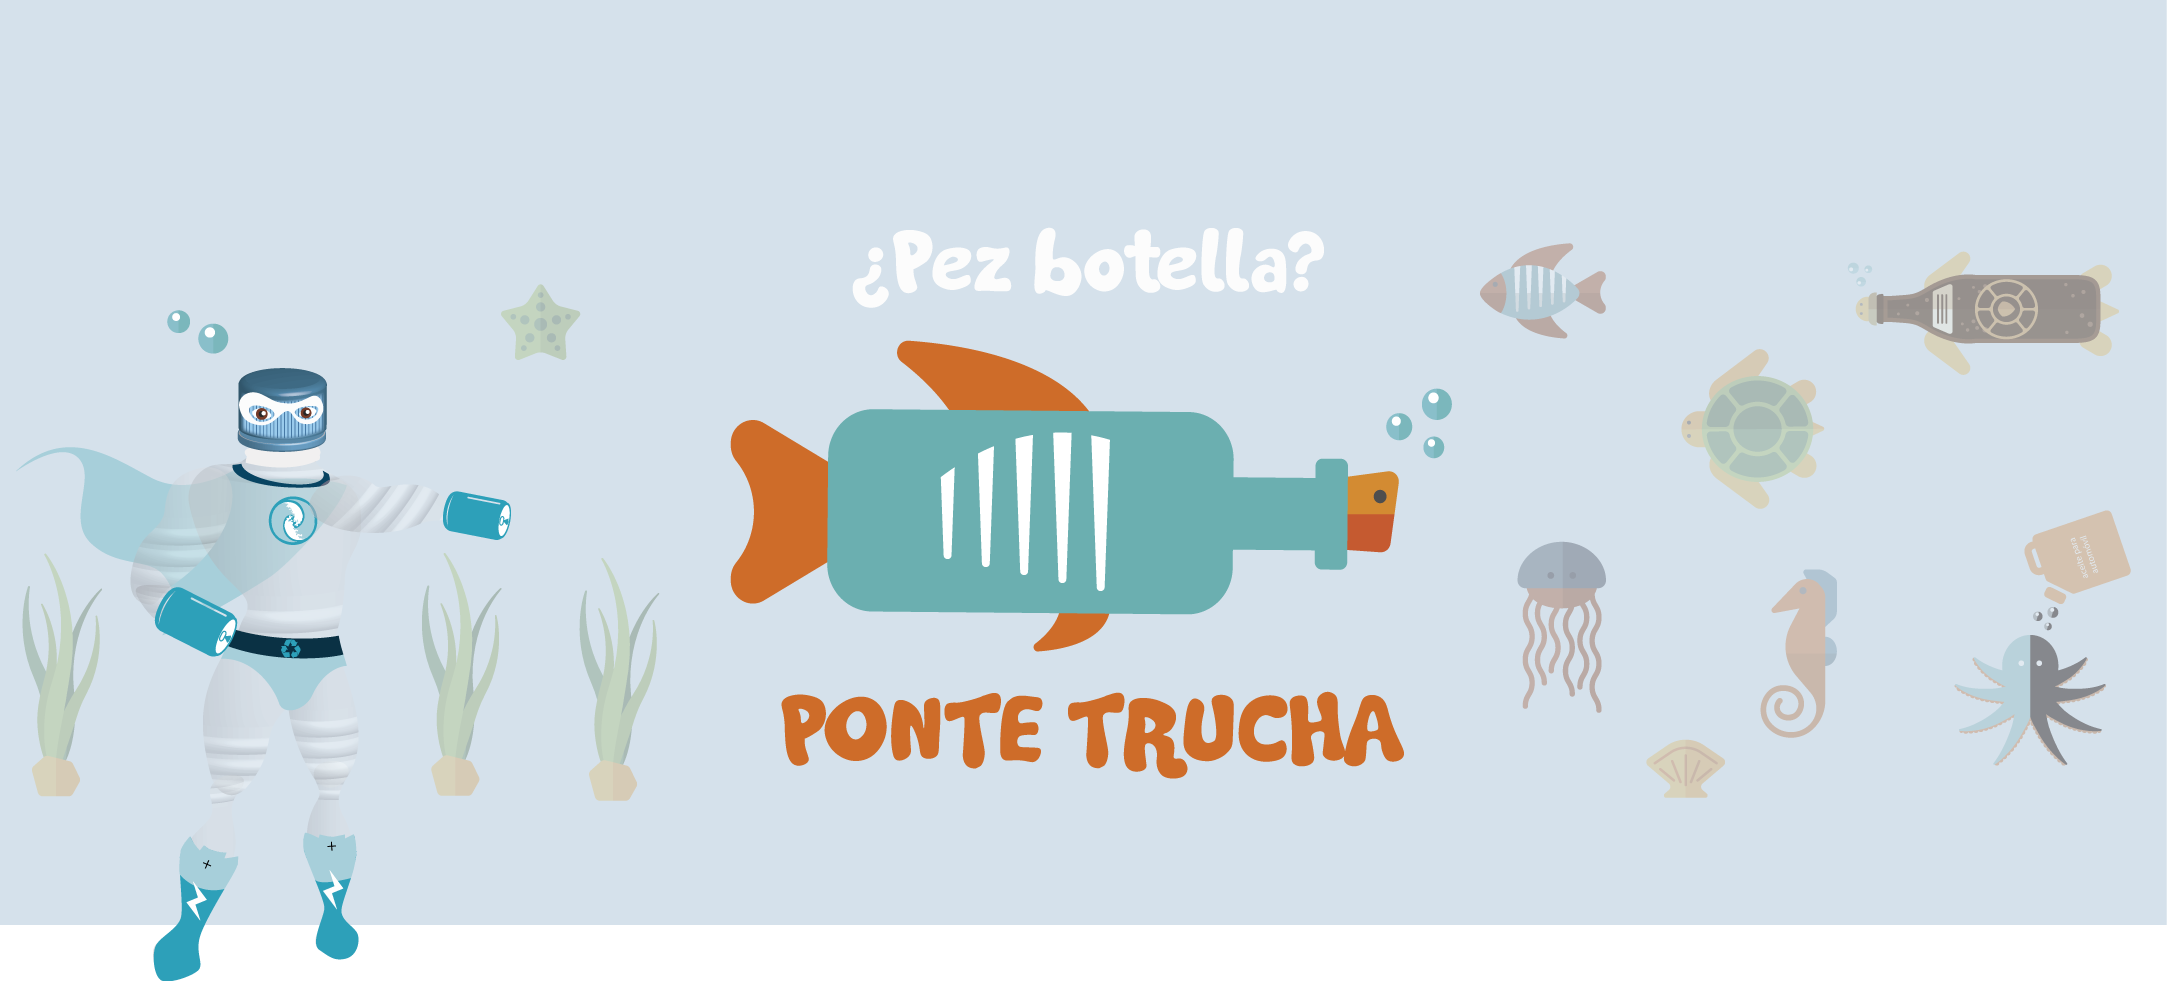
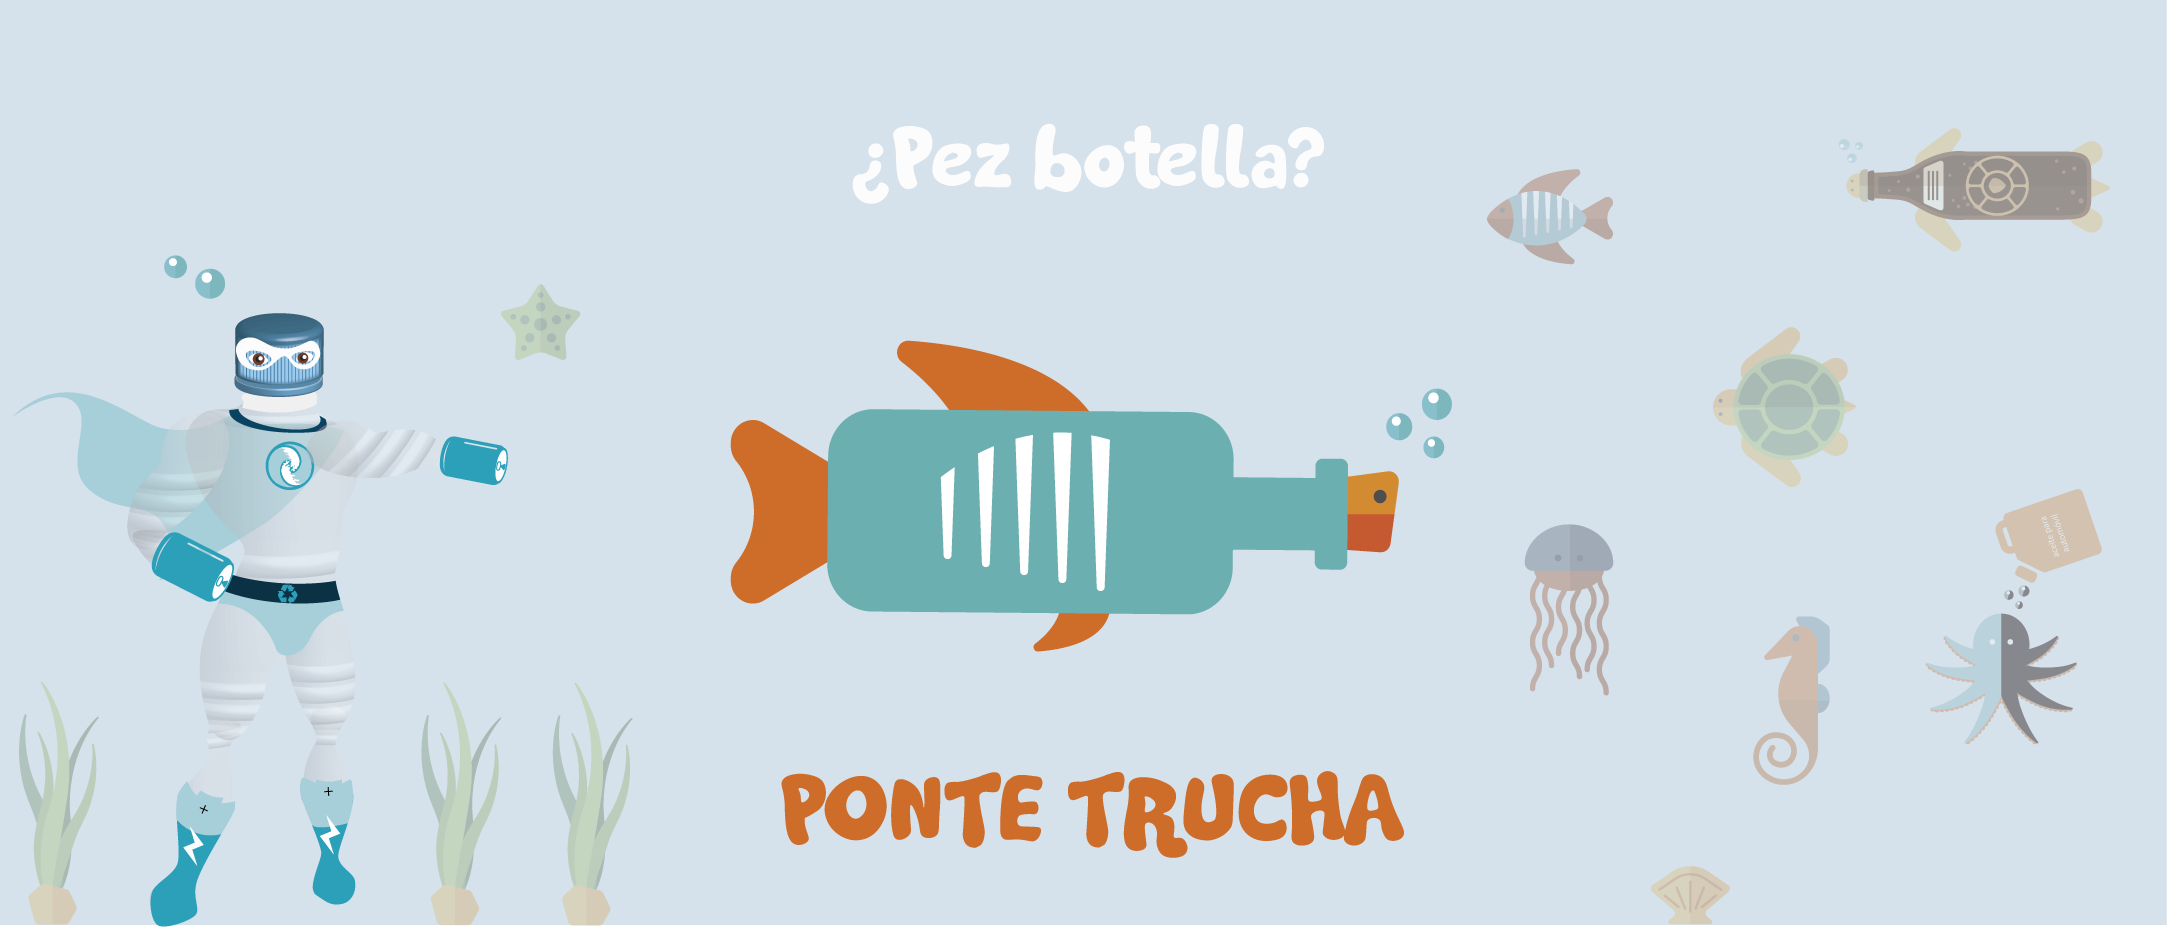
portada

diff --git a/sitio/css/estilo.css b/sitio/css/estilo.css
@@ -86,7 +86,7 @@ header{
 section.contenido{
   min-height: 500px;
   background-image: url(../img/portada.png);
-  background-size: cover;
+  background-size: contain;
   background-repeat: no-repeat;
   background-position:center;
   background-color: #D6E1EB;
